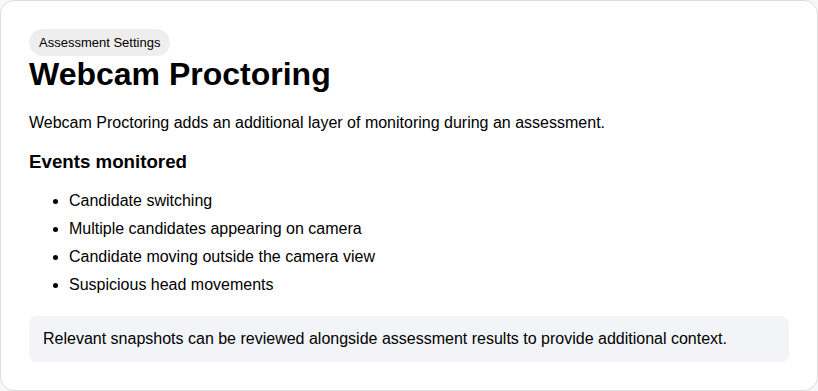
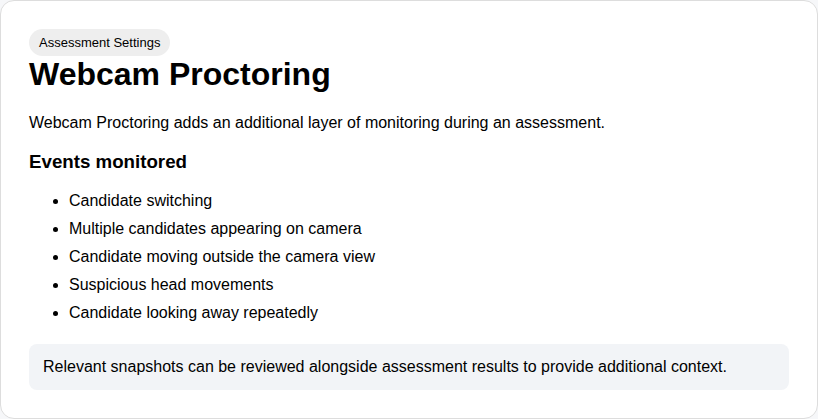
Auto-update docs and screenshot

diff --git a/product-demo/index.html b/product-demo/index.html
@@ -63,6 +63,7 @@ li {
 <li>Multiple candidates appearing on camera</li>
 <li>Candidate moving outside the camera view</li>
 <li>Suspicious head movements</li>
+<li>Candidate looking away repeatedly</li>
 </ul>
 
 <div class="note">

diff --git a/docs/webcam-proctoring.md b/docs/webcam-proctoring.md
@@ -8,6 +8,7 @@ Webcam Proctoring adds an additional layer of monitoring during an assessment.
 - Multiple candidates appearing on camera
 - Candidate moving outside the camera view
 - Suspicious head movements
+- Candidate looking away repeatedly
 
 Relevant snapshots can be reviewed alongside assessment results to provide additional context.
 
